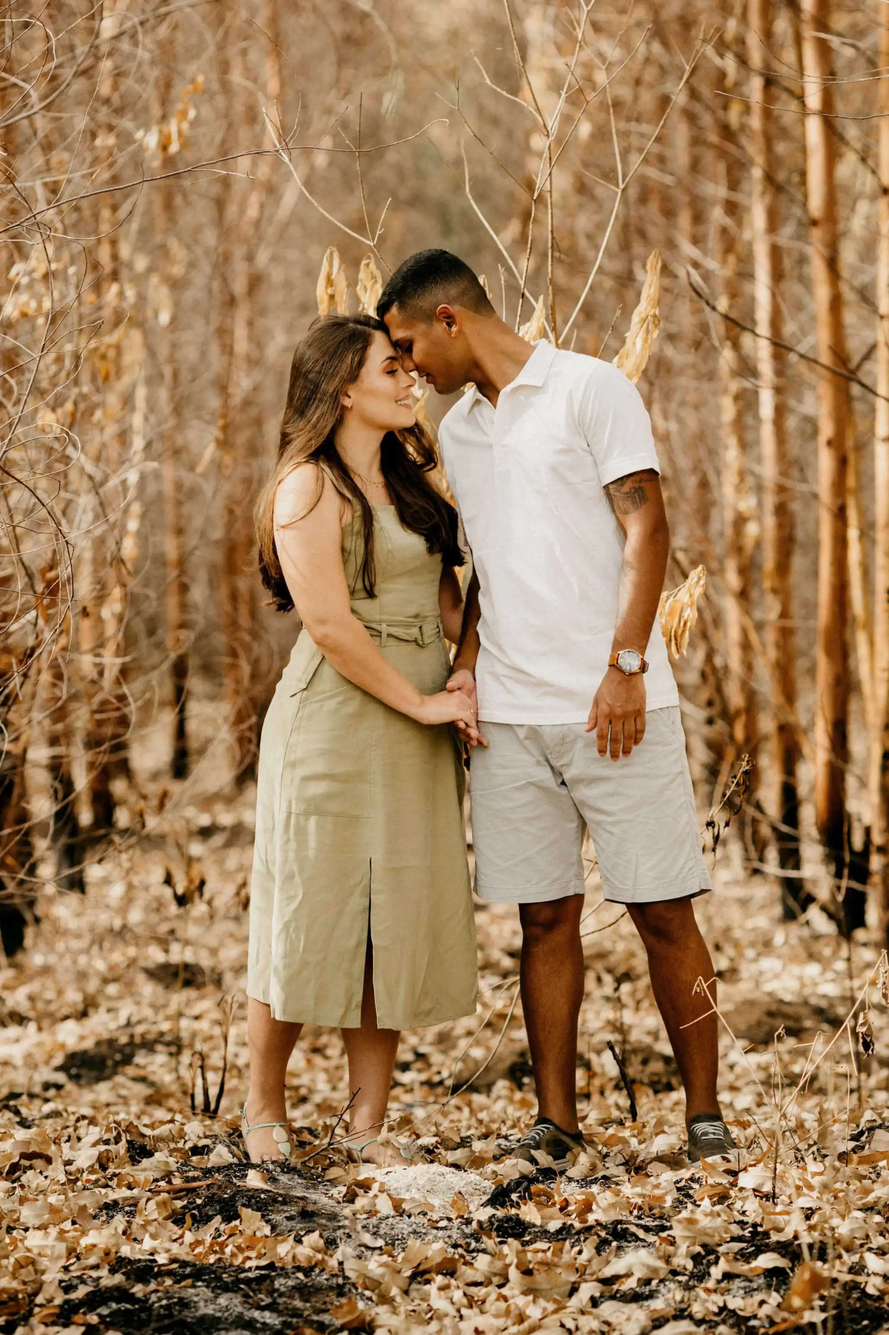
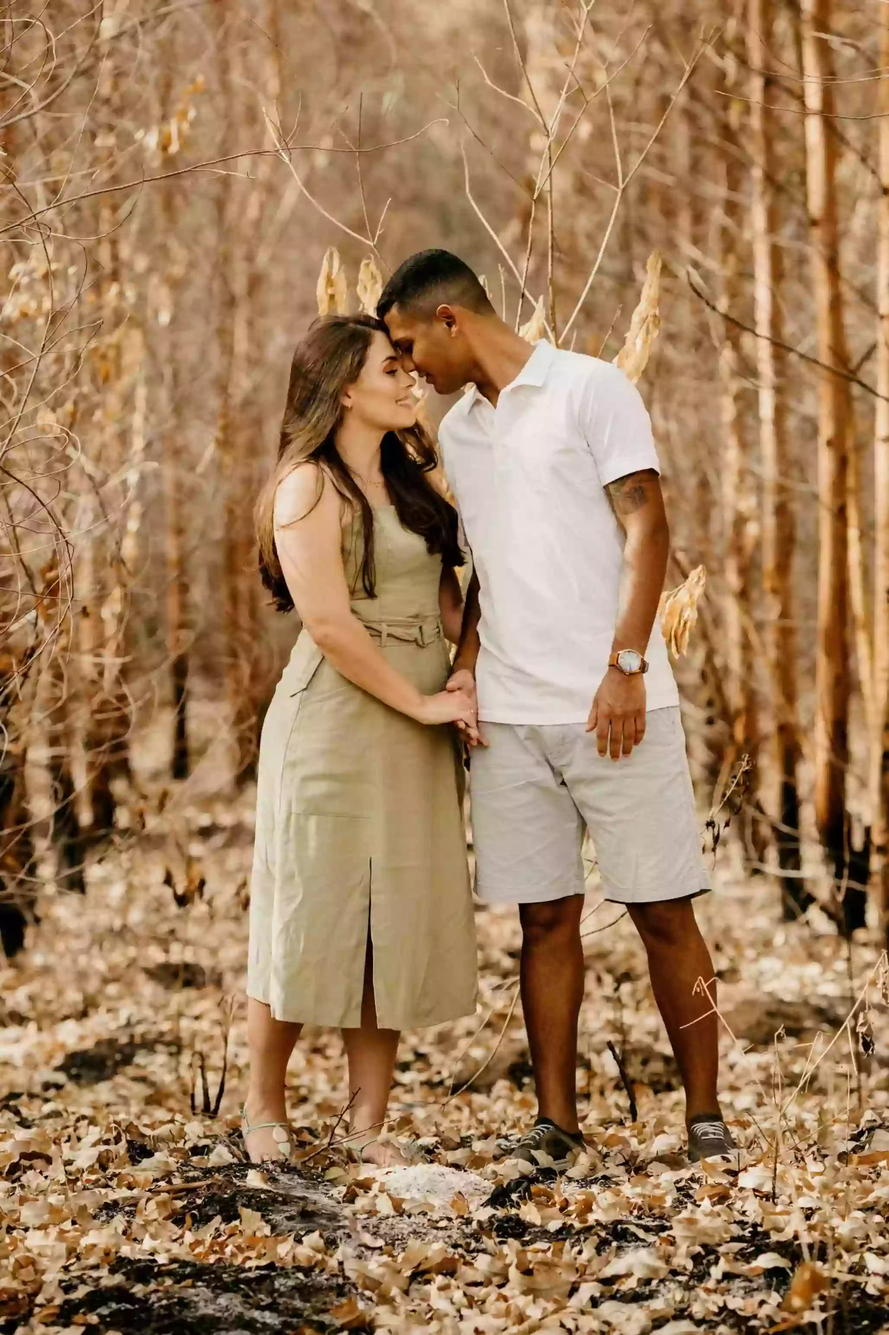
Images

diff --git a/index.html b/index.html
@@ -137,7 +137,7 @@
                 <div class="gallery__images" data-scroll data-scroll-speed="1">
                     <div class="gallery__item gallery__item--1" data-scroll data-scroll-class="img_reveal" data-scroll-offset="5">
                         <picture>
-                            <source srcset="/images/wedding-img1-mobile.webp" type="image/webp">
+                            <source srcset="/images/wedding-img1.webp" type="image/webp">
                             <source srcset="/images/wedding-img1.jpg" type="image/jpeg"> 
                             <img class="gallery__img" src="/images/wedding-img1.jpg" alt="Couple image 1">
                         </picture>
@@ -145,7 +145,7 @@
                     </div>
                     <div class="gallery__item gallery__item--2" data-scroll data-scroll-class="img_reveal" data-scroll-offset="5">
                         <picture>
-                            <source srcset="/images/wedding-img2-mobile.webp" type="image/webp">
+                            <source srcset="/images/wedding-img2.webp" type="image/webp">
                             <source srcset="/images/wedding-img2.jpg" type="image/jpeg"> 
                             <img class="gallery__img" src="/images/wedding-img2.jpg" alt="Couple image 2">
                         </picture>
@@ -153,7 +153,7 @@
                     </div>
                     <div class="gallery__item gallery__item--3" data-scroll data-scroll-class="img_reveal" data-scroll-offset="5">
                         <picture>
-                            <source srcset="/images/wedding-img3-mobile.webp" type="image/webp">
+                            <source srcset="/images/wedding-img3.webp" type="image/webp">
                             <source srcset="/images/wedding-img3.jpg" type="image/jpeg"> 
                             <img class="gallery__img" src="/images/wedding-img3.jpg" alt="Couple image 2">
                         </picture>
@@ -161,7 +161,7 @@
                     </div>
                     <div class="gallery__item gallery__item--4" data-scroll data-scroll-class="img_reveal" data-scroll-offset="10">
                         <picture>
-                            <source srcset="/images/wedding-img4-mobile.webp" type="image/webp">
+                            <source srcset="/images/wedding-img4.webp" type="image/webp">
                             <source srcset="/images/wedding-img4.jpg" type="image/jpeg"> 
                             <img class="gallery__img" src="/images/wedding-img4.jpg" alt="Couple image 2">
                         </picture>
@@ -169,7 +169,7 @@
                     </div>
                     <div class="gallery__item gallery__item--5" data-scroll data-scroll-class="img_reveal" data-scroll-offset="10">
                         <picture >
-                            <source srcset="/images/wedding-img5-mobile.webp" type="image/webp">
+                            <source srcset="/images/wedding-img5.webp" type="image/webp">
                             <source srcset="/images/wedding-img5.jpg" type="image/jpeg"> 
                             <img class="gallery__img" src="/images/wedding-img5.jpg" alt="Couple image 5">
                         </picture>
@@ -177,7 +177,7 @@
                     </div>
                     <div class="gallery__item gallery__item--6" data-scroll data-scroll-class="img_reveal" data-scroll-offset="10">
                         <picture class="gallery__img">
-                            <source srcset="/images/wedding-img6-mobile.webp" type="image/webp">
+                            <source srcset="/images/wedding-img6.webp" type="image/webp">
                             <source srcset="/images/wedding-img6.jpg" type="image/jpeg"> 
                             <img class="gallery__img" src="/images/wedding-img6.jpg" alt="Couple image 6">
                           </picture>
